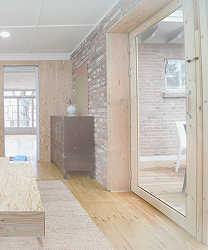
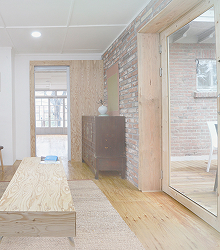
객실및예약안내-찾아오시는길-footer 완성(숙제)

diff --git a/index_study.html b/index_study.html
@@ -189,6 +189,74 @@
                     <p><button type="submit" id="search_btn">검색</button></p>
                 </form>
             </div>
+            <!-- 2. 양림동 호랑가시나무 소개 :me -->
+            <div class="info">
+                <div class="info_contents">
+                    <h1>양림동과 호랑가시나무언덕</h1>
+                    <p>양림동은 20세기 초 서구 선교사들이 광주 최초의 근대식 학교와 병원 등을 설립하면서 본격적인 광주근대화가 시작된 곳으로 광주의 근대역사가 살아 숨 쉬는 역사문화마을입니다. 오랜 세월에도 불구하고 온전하게 보존된 서구식 건축물들과 전통 한옥이 공존하고 있어 광주에서 가장 이국적인 분위기를 느낄 수 있는 곳입니다.</p>
+                    <img src="./images/info.jpg" alt="">
+                </div>
+            </div>
+            <!-- 3.관광지 소개 :me-->
+            <div class="tour">
+                <h1>주변관광지</h1>
+                <p>호랑가시나무언덕 게스트하우스 외부 및 주변전경입니다.</p>
+                <!-- hover 시 이미지 확대 방법1 -->
+                <ul class="tour_list">
+                    <li>
+                        <a href="#">
+                            <P><img src="./images/traval1.jpg" alt=""></P>
+                            <p>윈스 브로우 홀</p>
+                        </a>
+                    </li>
+                    <li>
+                        <a href="#">
+                            <P><img src="./images/traval2.jpg" alt=""></P>
+                            <p>양림동 문화마을</p>
+                        </a>
+                    </li>
+                    <li>
+                        <a href="#">
+                            <p><img src="./images/traval3.jpg" alt=""></p>
+                            <p>오웬 기념관</p>
+                        </a>
+                    </li>
+                    <li>
+                        <a href="#">
+                            <p><img src="./images/traval4.jpg" alt=""></p>
+                            <p>호랑가시나무언덕 기념관</p>
+                        </a>
+                    </li>
+                </ul>
+                <!-- hover 시 이미지 확대 방법2
+                <ul class="tour_list">
+                    <li>
+                        <a href="#">
+                            <p class="traval traval1"></p>
+                            <p>윈스 브로우 홀</p>
+                        </a>
+                    </li>
+                    <li>
+                        <a href="#">
+                            <p class="traval traval2"></p>
+                            <p>양림동 문화마을</p>
+                        </a>
+                    </li>
+                    <li>
+                        <a href="#">
+                            <p class="traval traval3"></p>
+                            <p>오웬 기념관</p>
+                        </a>
+                    </li>
+                    <li>
+                        <a href="#">
+                            <p class="traval traval4"></p>
+                            <p>호랑가시나무언덕 기념관</p>
+                        </a>
+                    </li>
+                </ul> -->
+                <a href="#" class="more">더 많은 관광지 둘러보기</a>
+            </div>
             <!-- 2. 양림동 호랑가시나무 소개 -->
             <div id="intro_guest_bg"><!-- 배경 -->
                 <div id="intro_guest" class="container_layout"><!-- 콘텐츠들 -->
@@ -221,58 +289,9 @@
                 </ul>
                 <a href="#" class="more">더 많은 관광지 둘러보기</a>
             </div>
-            <!-- 4. 객실 및 예약 안내 -->
-             <div id="intro_roominfo_bg">
-                <div id="intro_roominfo" class="container_layout">
-                    <h1>객실 및 예약안내</h1>
-                    <p>각 방을 클릭하면 자세한 정보를 보실 수 있습니다. 가격은 성수기/비성수기 동일합니다. 자세한건 예약안내(실시간 예약하기)를 클릭하여 확인하세요.</p>
-                    <ul class="contents">
-                        <li class="big_layout">
-                            <a href="#"><img src="./images/room1.jpg" alt=""></a>
-                            <h2>포사이드방</h2>
-                            <p>1층 2인(최대4인 방)<br>시원한 큰 창과 남향으로 햇빛이 잘들어오는 예쁜 방입니다.</p>
-                        </li>
-                        <li class="small_layout">
-                            <a href="#"><img src="./images/room2.jpg" alt=""></a>
-                            <h2>우월순 방</h2>
-                        </li>
-                        <li class="small_layout">
-                            <a href="#"><img src="./images/room3.jpg" alt=""></a>
-                            <h2>배유지방</h2>
-                        </li>
-                        <li class="small_layout">
-                            <a href="#"><img src="./images/room4.jpg" alt=""></a>
-                            <h2>오웬방</h2>
-                        </li>
-                    </ul>
-                    <a href="#" class="reservation">실시간 예약하기</a>
-                </div>
-            </div>
-            <!-- 5. 게스트하우스 찾아오시는 길 -->
-             <div id="intro_visitmap" class="container_layout">
-                <div class="title">
-                    <h1>게스트 하우스 찾아오시는 길</h1>
-                    <p>예약문의) 010-1234-5678</p>
-                </div>
-                <p class="map"><img src="./images/map.jpg" alt=""></p>
-                <dl class="contents">
-                    <dt>시내버스</dt>
-                    <dd>1) 기독병원 정류장 → 게스트하우스 (도보 10분)<br>버스노선 : 금남55</dd>
-                    <dd>2) 양림휴먼시아2차 정류장 → 게스트하우스 (도보 30분)<br>버스노선 : 순환01, 진원17, 지원25, 봉선27, 문흥48, 금남59, 봉선76, 첨단95, 송정98, 화순217, 화순218, 화순218-1</dd>
-                    <dt>지하철</dt>
-                    <dd>3) 남광주역 3번 출구 → 게스트하우스 (도보 25분)<br>4) 문화전당역 1, 3번 출구 → 게스트하우스 (도보 35분)</dd>
-                </dl>
-             </div>
         </main>
         <footer>
-            <div id="footer_wrap" class="container_layout">
-                <p>호랑가시나무언덕 게스트하우스, 주소 : 503-822 광주광역시 남구 양림동 230-1 / 전화 : 062-682-0976, 휴대전화 : 010-2056-4832, 팩스 : 062-653-0978<br>
-                    Copyright &copy; 호랑가시나무언덕 게스트하우스. All right reserved.<br>
-                    법인(단체명) : (주)아트주, 대표자 : 정헌기, 사업자등록번호 : 408-81-88664<br>
-                    통신판매신고번호 : 2015-광주남구-0127
-                    <a href="http://www.horanggasy.kr/wpage/company/company05.php#%EC%82%AC%EC%97%85%EC%9E%90%EC%A0%95%EB%B3%B4%ED%99%95%EC%9D%B8">[사업자정보확인]</a>
-                    , 사업자 주소 : 광주광역시 남구 제중로 47번길 11(양림동, 2층)</p>
-            </div>
+            <p>2026 &copy; copyright 호랑가시나무게스트하우스</p>
         </footer>
     </div>
 </body>

diff --git a/styles/index_study.css b/styles/index_study.css
@@ -37,6 +37,7 @@
 }
 #wrap main #hero_bnr #reservation_form h2+div,
 #wrap main #hero_bnr #reservation_form ul li {
+    background-color: lime;
 }
 /* --------------------------------------------------------------- 객실선택 */
 #wrap main #hero_bnr #reservation_form .room {}
@@ -165,6 +166,74 @@
     border-radius: 8px;
     font-size: 0.88rem;
 }
+/* -------------------------------------------------소개, 관광지 통합 */
+#wrap main .info .info_contents h1,
+#wrap main .info .info_contents p,
+#wrap main .tour h1,
+#wrap main .tour > p {margin-bottom: 30px;}
+#wrap main .info .info_contents h1,
+#wrap main .tour h1 {
+    font-size: 1.50rem;
+    font-weight: 600;
+}
+#wrap main .info .info_contents p,
+#wrap main .tour > p {
+    line-height: 1.7;
+    font-size: 0.94rem;
+    color: #555;
+}
+/* ------------------------------------------------게스트하우스 소개 */
+#wrap main .info {
+    background-color: #F5F5F5;
+    padding: 70px 0;
+}
+#wrap main .info .info_contents {
+    width: 1220px;
+    margin: 0 auto;
+}
+#wrap main .info .info_contents img {}
+/* ---------------------------------------------------------관광지 */
+#wrap main .tour {
+    width: 1220px;
+    margin: 70px auto;
+}
+#wrap main .tour .tour_list {
+    display: flex; flex-flow: row nowrap;
+    justify-content: space-between; align-items: center;
+}
+#wrap main .tour .tour_list li {
+    width: calc((100% - (20px * 3)) / 4);
+}
+#wrap main .tour .tour_list li a {}
+#wrap main .tour .tour_list li a p {
+    height: 250px;
+    overflow: hidden;
+    margin-bottom: 10px;
+}
+#wrap main .tour .tour_list li a p img{
+    
+}
+#wrap main .tour .tour_list li a img:hover {width: 200%;}
+#wrap main .tour .tour_list li a p {
+    
+}
+/* hover 시 이미지 확대 방법2 */
+/* #wrap main .tour .tour_list li a .traval:hover {background-size: 150%; background-position: 50% 50%;}
+#wrap main .tour .tour_list li a .traval {height: 250px;}
+#wrap main .tour .tour_list li a .traval1 {background-image: url(../images/traval1.jpg);}
+#wrap main .tour .tour_list li a .traval2 {background-image: url(../images/traval2.jpg);}
+#wrap main .tour .tour_list li a .traval3 {background-image: url(../images/traval3.jpg);}
+#wrap main .tour .tour_list li a .traval4 {background-image: url(../images/traval4.jpg);} */
+#wrap main .tour .tour_list li a p {
+    font-size: 1.13rem; font-weight: 600;
+}
+#wrap main .tour .more {
+    display: block;
+    text-align: center;
+    padding-top: 70px;
+    text-decoration: underline;
+    font-size: 0.94rem;
+}
 /* ===================================================================2.양림동 호랑가시나무 소개 */
 #wrap main #intro_guest_bg {
     background-color: #F5F5F5;
@@ -211,65 +280,4 @@
     border-bottom: 1px solid #000 ;
     padding-bottom: 4px;
     /* text-decoration: underline; 밑줄과 글자사이 여백 불가능 */
-}
-/* ===================================================================================== 4.객실 및 예약 안내 */
-#wrap main #intro_roominfo_bg {background-color: #F5F5F5;}
-#wrap main #intro_roominfo_bg #intro_roominfo {}
-#wrap main #intro_roominfo_bg #intro_roominfo h1 {}
-#wrap main #intro_roominfo_bg #intro_roominfo p {}
-#wrap main #intro_roominfo_bg #intro_roominfo .contents {
-    display: flex; flex-flow: row nowrap;
-    justify-content: space-between; align-items: center;
-    margin: 0 0 50px;/* ul + a 여백 */
-}
-#wrap main #intro_roominfo_bg #intro_roominfo .contents li {}
-/* #wrap main #intro_roominfo_bg #intro_roominfo .contents li a {border: 1px solid rebeccapurple;} 크기 테스트 */
-/* 크기가 다른 이미지 개별 클래스 선택으로 hover 시 세로 비율 유지*/
-#wrap main #intro_roominfo_bg #intro_roominfo .contents .big_layout a {
-    margin: 0 0 10px;
-    display: block;
-    overflow: hidden;
-    height: 350px;
-}
-#wrap main #intro_roominfo_bg #intro_roominfo .contents .small_layout a {
-    margin: 0 0 10px;
-    display: block;
-    overflow: hidden;
-    height: 250px;
-}
-/* room 이미지에 hover 시 변경 되는 비율 100% -> 120% */
-#wrap main #intro_roominfo_bg #intro_roominfo .contents li a img {width: 100%;}
-#wrap main #intro_roominfo_bg #intro_roominfo .contents li:hover a img {width: 120%;}
-#wrap main #intro_roominfo_bg #intro_roominfo .contents li h2 {
-    font-size: 1.13rem; font-weight: 600;
-}
-#wrap main #intro_roominfo_bg #intro_roominfo .contents li:first-child h2 {margin: 0 0 10px;}
-#wrap main #intro_roominfo_bg #intro_roominfo .contents li p {
-    font-size: 0.88rem; line-height: 1.7; color: #555;
-}
-#wrap main #intro_roominfo_bg #intro_roominfo .contents .big_layout {width: 500px;}
-#wrap main #intro_roominfo_bg #intro_roominfo .contents .small_layout {width: calc((100% - 500px - 60px) / 3);}
-#wrap main #intro_roominfo_bg #intro_roominfo .reservation {
-    margin: 0 auto;
-    width: max-content;
-    display: block;
-    border-bottom: 1px solid #000 ;
-    padding-bottom: 4px;
-}
-/* ======================================================================== 5.게스트하우스 찾아오시는 길 */
-#wrap main #intro_visitmap {}
-#wrap main #intro_visitmap .title {
-    display: flex; flex-flow: row nowrap;
-    justify-content: space-between; align-items: center;
-}
-#wrap main #intro_visitmap .title h2 {}
-#wrap main #intro_visitmap .title p {}
-#wrap main #intro_visitmap .map {margin: 0 0 30px; display: block;}
-#wrap main #intro_visitmap .map img {width: 100%;}
-#wrap main #intro_visitmap .contents dt {
-    font-size: 1.50rem; font-weight: 700; line-height: 1.8; color: #555;
-}
-#wrap main #intro_visitmap .contents dd {
-    font-size: 0.94rem; line-height: 1.8;
-    margin: 0 0 30px; color: #555;
 }

diff --git a/styles/common.css b/styles/common.css
@@ -54,8 +54,15 @@ body {}
     display: block; line-height: 46px;
 }
 /* ==================================================== foother */
-#warp footer {}
-#warp footer p {}
+footer {background-color: #000;}
+footer #footer_wrap {}
+footer #footer_wrap p,
+footer #footer_wrap p a {
+    display: inline-block;
+    color: #fff;
+    line-height: 2.0;
+    font-size: 0.81rem;
+}
 /* ==================================================== main w1220+p70 */
 /* main > div */
 /* main #intro_tourist, main... */

diff --git a/README.md b/README.md
@@ -6,9 +6,12 @@
 * header - gnb - lnb - HTML 제작완료
 * **gnb, lnb(depth2~3) 모두 ul-li-a 통일해서 구성하기**
 * 시멘틱 태그 `<nav>` 사용하기
-### 26/02/02
+### 26/02/02 update
 * **css 선택자 1. 히어로 배너까지 작성**
-### 26/02/20
+### 26/02/20 update
 * header~hero_bnr까지
-### 26/02/23
+### 26/02/23 update
 * 예약폼완성~소개~관광지 작업중
+### 26/02/24
+* 예약폼완성-소개-관광지 코드 풀이(수업)
+* 객실및예약안내-찾아오시는길-footer 완성(숙제)
